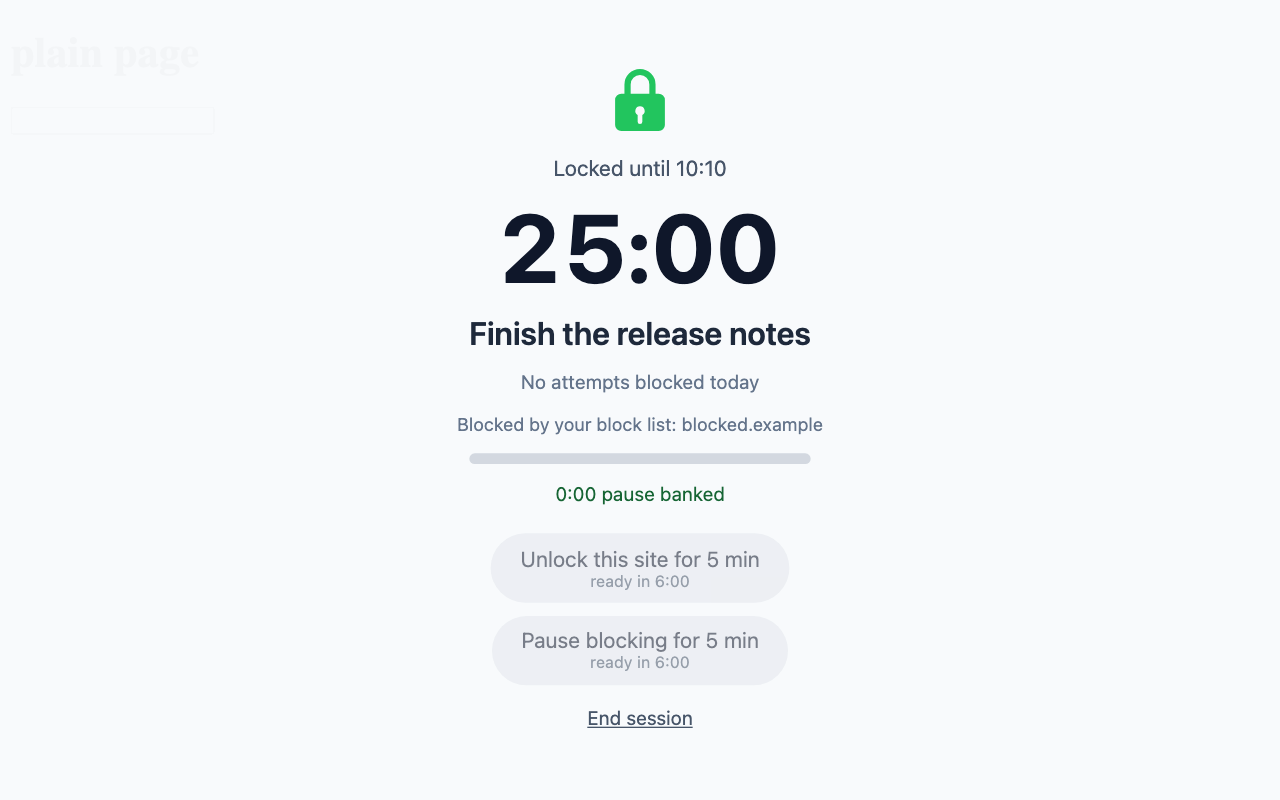
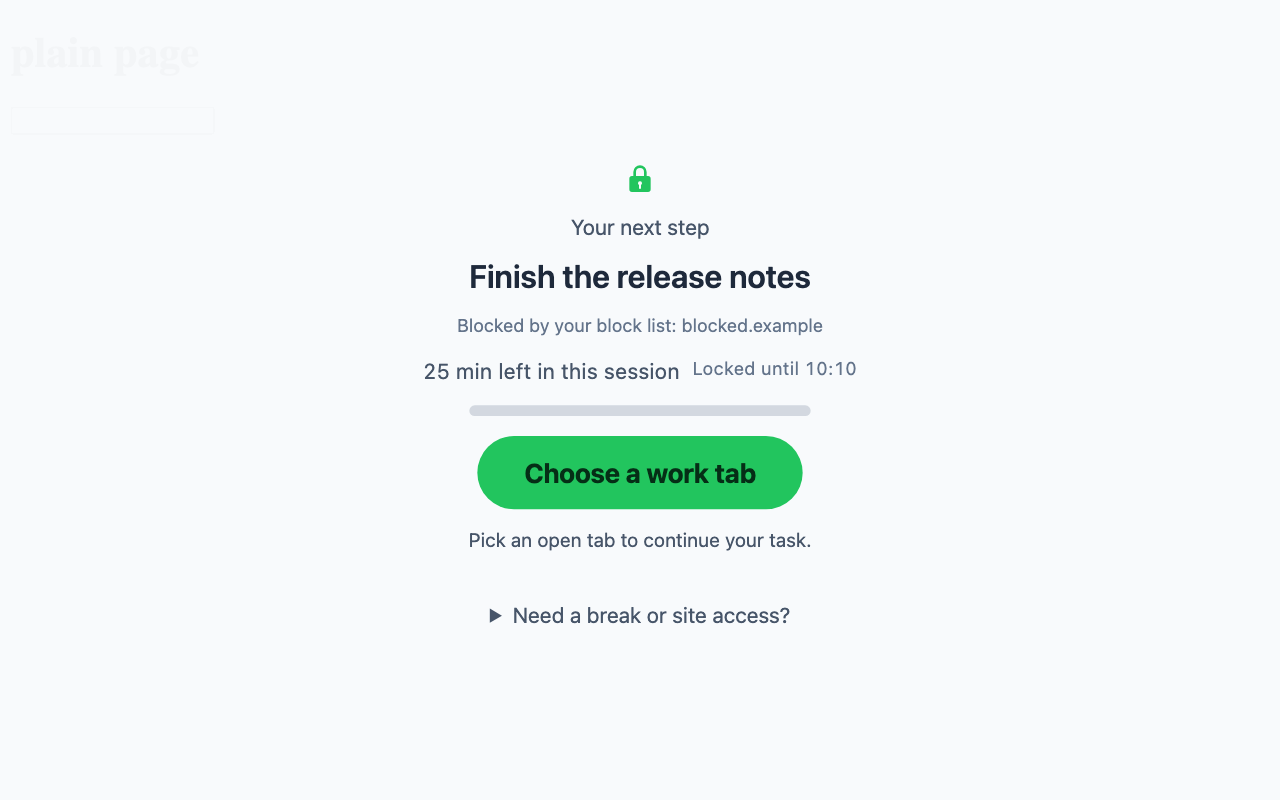
Point the browser scenarios at the rebuilt lock screen and recapture the store screenshots
The gate and indefinite scenarios open the blocked page's collapsed
access drawer before they read its controls, expect the new time line
and schedule copy, and treat Keep focusing as the gate's back action.
The popup scenario scrolls the End control into view inside the fixed
popup height. The store screenshots and their provenance were captured
again from this build, so the listing shows the interface the product
has.

Changed region(s): [[0.3438, 0.0938, 0.6875, 0.8438], [0.4688, 0.875, 0.5312, 0.9062]]

diff --git a/tests/e2e/indefinite.spec.ts b/tests/e2e/indefinite.spec.ts
@@ -65,7 +65,7 @@ const FOCUS_PHASE_CLOCK_LABEL: string = 'focus phase';
 const TOTAL_SESSION_CLOCK_LABEL: string = 'total session';
 const PAUSE_CLOCK_LABEL: string = 'pause';
 const INDEFINITE_BADGE_TEXT: string = 'ON';
-const OVERLAY_UNTIL_STOPPED_STATUS: string = 'Focus Lock is active until you stop it.';
+const OVERLAY_UNTIL_STOPPED_STATUS: string = 'Until stopped';
 const OVERLAY_STOPPED_PAGE_COPY: string =
   'This page did not load. It will load by itself when the session ends.';
 const SETTINGS_INDEFINITE_COPY: string =
@@ -73,7 +73,7 @@ const SETTINGS_INDEFINITE_COPY: string =
 const SETTINGS_SESSION_DISCLOSURE: string =
   'The toolbar popup owns session controls. The active session keeps the rules captured when it started.';
 const SCHEDULE_STARTED_TITLE: string = 'Focus schedule started';
-const SCHEDULE_UNTIL_STOPPED_BODY: string = 'Active until you end it manually.';
+const SCHEDULE_UNTIL_STOPPED_BODY: string = 'Active until you stop it.';
 const CANCEL_GATE_TITLE: string = 'End this session';
 const CANCEL_GATE_CONFIRM: string = 'End the session';
 const CANCEL_GATE_BACK: string = 'Never mind, back to work';
@@ -181,6 +181,34 @@ async function overlayNodeIds(session: CDPSession): Promise<ReadonlySet<number>>
       .flatMap((shadowRoot: DomNodeSnapshot): DomNodeSnapshot[] => flattenDomNode(shadowRoot))
       .map((node: DomNodeSnapshot): number => node.backendNodeId),
   );
+}
+
+/** Opens the blocked page's collapsed access drawer so its controls join the accessibility tree. */
+async function openAccessDrawer(context: BrowserContext, page: Page): Promise<void> {
+  const session: CDPSession = await context.newCDPSession(page);
+  try {
+    await session.send('Accessibility.enable');
+    const tree = await session.send('Accessibility.getFullAXTree');
+    const summary = tree.nodes.find(
+      (node): boolean =>
+        node.role?.value === 'DisclosureTriangle' &&
+        String(node.name?.value).startsWith('Need a break or site access?'),
+    );
+    if (summary?.backendDOMNodeId === undefined) return;
+    const expanded: boolean =
+      summary.properties?.some(
+        (property): boolean => property.name === 'expanded' && property.value.value === true,
+      ) ?? false;
+    if (expanded) return;
+    const box = await session.send('DOM.getBoxModel', { backendNodeId: summary.backendDOMNodeId });
+    const [left, top, right, , , bottom] = box.model.content;
+    if (left === undefined || top === undefined || right === undefined || bottom === undefined) {
+      throw new Error('access drawer summary has no content box');
+    }
+    await page.mouse.click((left + right) / 2, (top + bottom) / 2);
+  } finally {
+    await session.detach();
+  }
 }
 
 async function overlayCopy(context: BrowserContext, page: Page): Promise<OverlayCopy> {
@@ -392,6 +420,7 @@ test('the indefinite blocked page offers the same End the popup does', async ({
   await expect
     .poll(async (): Promise<string[]> => (await overlayCopy(context, existingPage)).statics)
     .toContain(OVERLAY_UNTIL_STOPPED_STATUS);
+  await openAccessDrawer(context, existingPage);
   const existingCopy: OverlayCopy = await overlayCopy(context, existingPage);
   expect(
     existingCopy.statics.filter((text: string): boolean => text.startsWith('Locked until')),
@@ -431,12 +460,14 @@ test('a stopped fresh navigation carries the indefinite and stopped-page copy', 
   await expect(stoppedPage.locator('focus-lock-overlay')).toBeAttached();
   await expect(stoppedPage).toHaveTitle('Locked - Focus Lock');
   await expect(stoppedPage.locator('#marker')).toHaveCount(0);
+  await openAccessDrawer(context, stoppedPage);
   const stoppedCopy: OverlayCopy = await overlayCopy(context, stoppedPage);
   expect(stoppedCopy.statics).toContain(OVERLAY_UNTIL_STOPPED_STATUS);
   expect(
     stoppedCopy.statics.filter((text: string): boolean => text.startsWith('Locked until')),
   ).toEqual([]);
-  expect(stoppedCopy.buttons).not.toContain(END_SESSION_LABEL);
+  // A Flexible until-stopped page offers End on a stopped document as it does on a loaded one.
+  expect(stoppedCopy.buttons).toContain(END_SESSION_LABEL);
 
   // The worker records the stop after it has already built the command that answered this
   // navigation, so the stopped-page sentence rides on the next live-view refresh rather than on
@@ -450,9 +481,10 @@ test('a stopped fresh navigation carries the indefinite and stopped-page copy', 
       timeout: 15_000,
     })
     .toContain(OVERLAY_STOPPED_PAGE_COPY);
+  await openAccessDrawer(context, stoppedPage);
   const refreshedCopy: OverlayCopy = await overlayCopy(context, stoppedPage);
   expect(refreshedCopy.statics).toContain(OVERLAY_UNTIL_STOPPED_STATUS);
-  expect(refreshedCopy.buttons).not.toContain(END_SESSION_LABEL);
+  expect(refreshedCopy.buttons).toContain(END_SESSION_LABEL);
 
   expectNoDiagnostics(context);
 });

diff --git a/tests/e2e/gates.spec.ts b/tests/e2e/gates.spec.ts
@@ -94,6 +94,32 @@ async function clickClosedShadowButton(
   }
 }
 
+async function openAccessDrawer(context: BrowserContext, page: Page): Promise<void> {
+  const session: CDPSession = await context.newCDPSession(page);
+  try {
+    const tree = await session.send('Accessibility.getFullAXTree');
+    const summary = tree.nodes.find(
+      (node): boolean =>
+        node.role?.value === 'DisclosureTriangle' &&
+        String(node.name?.value).startsWith('Need a break or site access?'),
+    );
+    if (summary?.backendDOMNodeId === undefined) return;
+    const expanded: boolean =
+      summary.properties?.some(
+        (property): boolean => property.name === 'expanded' && property.value.value === true,
+      ) ?? false;
+    if (expanded) return;
+    const box = await session.send('DOM.getBoxModel', { backendNodeId: summary.backendDOMNodeId });
+    const [left, top, right, , , bottom] = box.model.content;
+    if (left === undefined || top === undefined || right === undefined || bottom === undefined) {
+      throw new Error('access drawer summary has no content box');
+    }
+    await page.mouse.click((left + right) / 2, (top + bottom) / 2);
+  } finally {
+    await session.detach();
+  }
+}
+
 async function closedShadowButtonNames(context: BrowserContext, page: Page): Promise<string[]> {
   const session: CDPSession = await context.newCDPSession(page);
   try {
@@ -116,6 +142,7 @@ async function openOverlayUnlock(
     .poll(async (): Promise<string | null> => {
       const current: SessionSnapshot = await sendExtensionRequest(extPage, { type: 'getSnapshot' });
       if (current.gate?.host === host) return host;
+      await openAccessDrawer(context, page);
       const names: string[] = await closedShadowButtonNames(context, page);
       if (names.some((name: string): boolean => name.startsWith('Unlock this site '))) {
         await clickClosedShadowButton(context, page, 'Unlock this site ');
@@ -137,6 +164,7 @@ test('pause gate rejects an early confirmation and unblocks after its delay', as
   await startTestSession(extPage, { duration: { kind: 'timed', minutes: 0.3 } });
   await expect(page.locator('focus-lock-overlay')).toBeAttached();
   await waitForBank(extPage, pauseMs);
+  await openAccessDrawer(context, page);
   await expect
     .poll(async (): Promise<string> => {
       const names: string[] = await closedShadowButtonNames(context, page);
@@ -479,8 +507,9 @@ test('a newly blocked domain replaces an unlock gate and rejects the old confirm
   const second: Page = await context.newPage();
   await second.goto(siteUrl('/plain.html').replace('blocked.example', 'other.example'));
   await expect(second.locator('focus-lock-overlay')).toBeAttached();
+  await openAccessDrawer(context, second);
   const names: string[] = await closedShadowButtonNames(context, second);
-  expect(names).not.toContain('Never mind, back to work');
+  expect(names).not.toContain('Keep focusing');
   expect(names).toContain('Unlock this site 0:30 - costs 0:30 credit');
   await openOverlayUnlock(context, second, extPage, 'other.example');
   const replacement: GateState = await captureGate(extPage);
@@ -490,7 +519,7 @@ test('a newly blocked domain replaces an unlock gate and rejects the old confirm
   await expect
     .poll(
       async (): Promise<boolean> =>
-        (await closedShadowButtonNames(context, first)).includes('Never mind, back to work'),
+        (await closedShadowButtonNames(context, first)).includes('Keep focusing'),
     )
     .toBe(false);
   await expect.poll((): boolean => Date.now() >= replacement.readyAt).toBe(true);
@@ -548,6 +577,7 @@ test('overlay unlock isolates another site and reblocks after expiry', async ({
   // never recover. It clicks only while the button is still offered, and settles on the gate.
   await expect
     .poll(async (): Promise<string | null> => {
+      await openAccessDrawer(context, page);
       const names: string[] = await closedShadowButtonNames(context, page);
       if (names.some((name: string): boolean => name.startsWith('Unlock this site'))) {
         await clickClosedShadowButton(context, page, 'Unlock this site');

diff --git a/tests/e2e/popup-actions.spec.ts b/tests/e2e/popup-actions.spec.ts
@@ -28,7 +28,12 @@ test('popup shows an unlock confirmation and a red End session control', async (
     for (const width of [480, 375, 768]) {
       await extPage.setViewportSize({ width, height: 600 });
       const end: Locator = extPage.getByRole('button', { name: 'End session', exact: true });
-      await expect(end).toBeInViewport({ ratio: 1 });
+      // The active view scrolls inside the fixed popup height, so the End control is brought
+      // into view the way a person would reach it.
+      await end.scrollIntoViewIfNeeded();
+      // The scrolled view can leave a sub-pixel of the control outside the box, so the check
+      // asks for the whole control within rounding rather than an exact 1.
+      await expect(end).toBeInViewport({ ratio: 0.98 });
       const actionStyles: Record<string, string | number>[] = await extPage
         .locator('.actions > button')
         .evaluateAll((buttons: Element[]): Record<string, string | number>[] =>

diff --git a/tests/e2e/store-screenshots.spec.ts b/tests/e2e/store-screenshots.spec.ts
@@ -1197,7 +1197,8 @@ test('captures five truthful release states with category membership in the popu
         .toEqual(
           expect.arrayContaining([
             `Locked until ${zonedClockLabel(captureInstant() + 25 * 60_000, STORE_TIMEZONE)}`,
-            '25:00',
+            '25 min left in this session',
+            'Your next step',
             STORE_INTENTION,
             'Blocked by your block list: blocked.example',
           ]),
